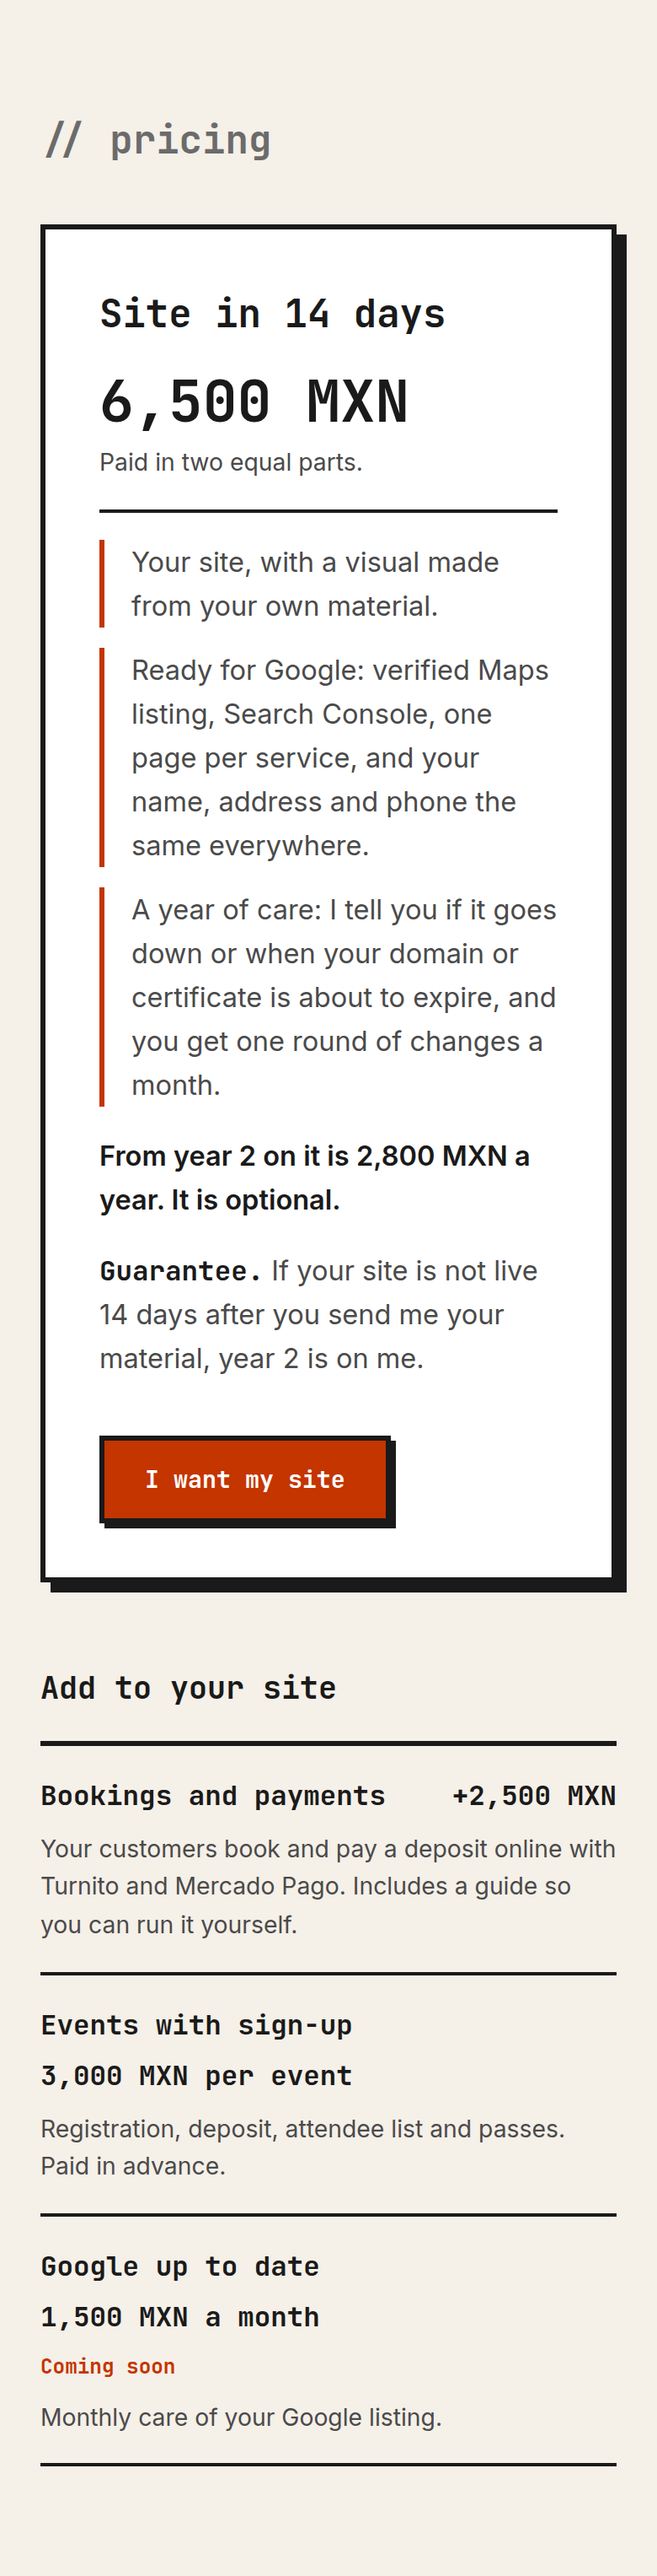
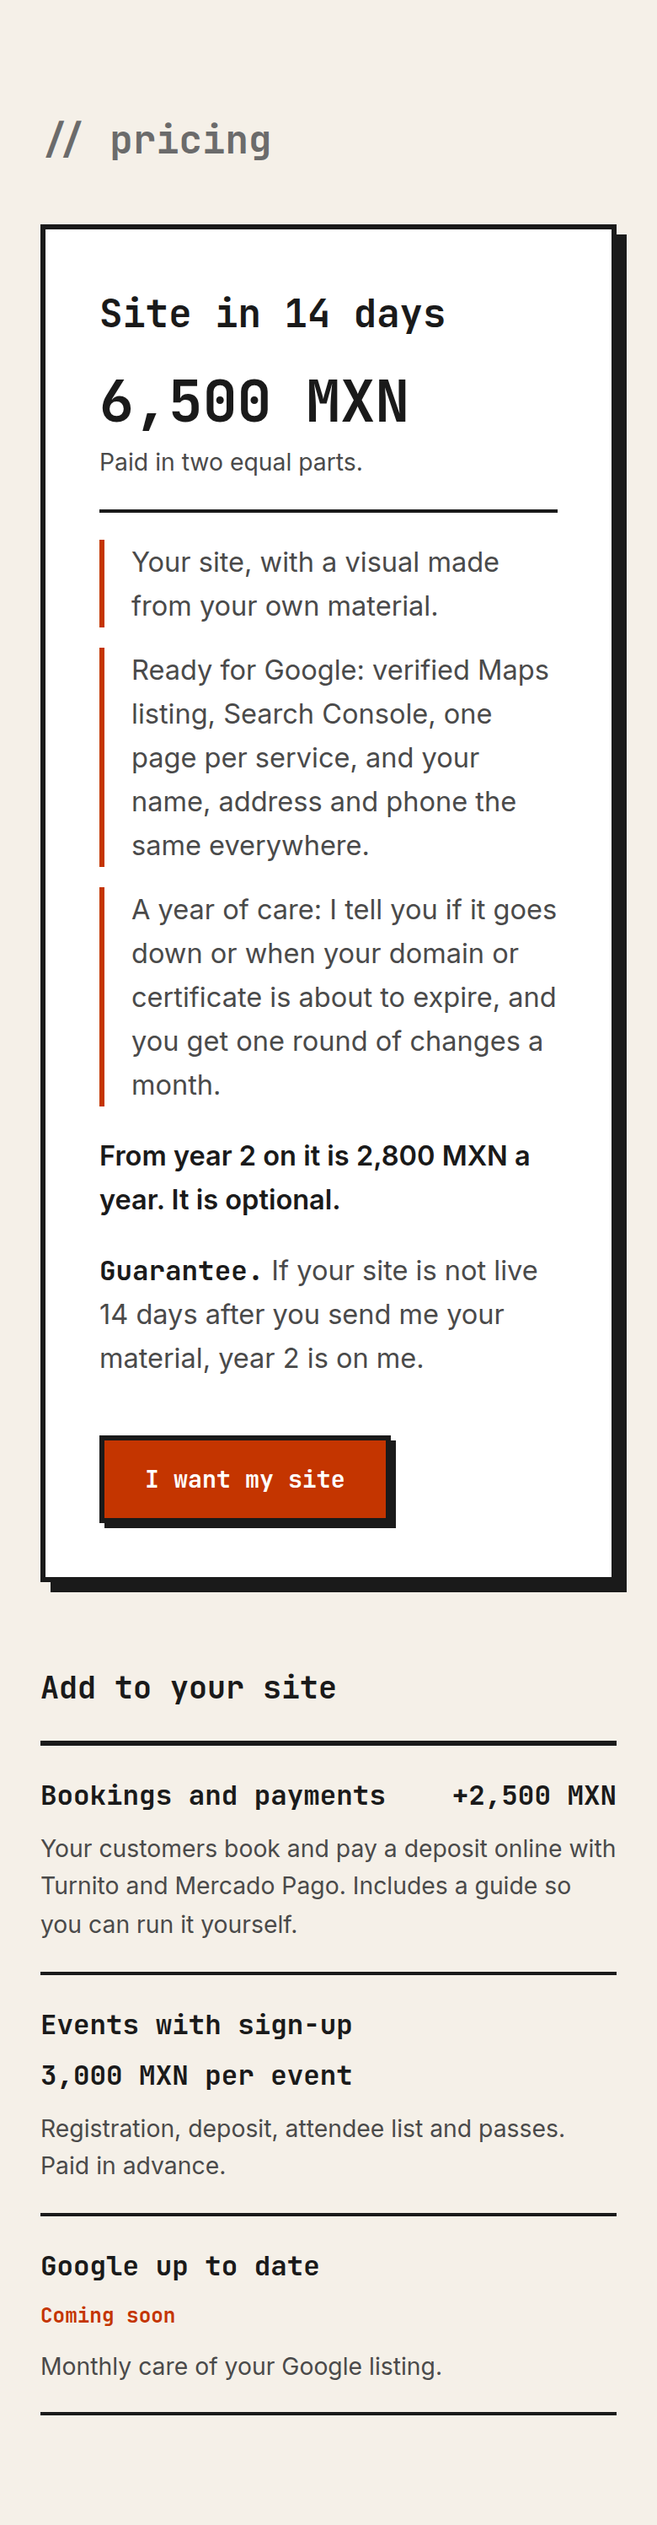
content(web): Google al día shows no price, only Próximamente
Owner's call 2026-11-06: the module is not for sale yet, so no 1,500 MXN/mes
on the page (es + en). DESIGN.md and the section screenshots updated.

Claude-Session: https://claude.ai/code/session_01JDrAz8PRDkKof6gAjaTaAv

Changed region(s): [[0.0615, 0.0311, 0.9538, 0.9629]]

diff --git a/docs/design/DESIGN.md b/docs/design/DESIGN.md
@@ -54,6 +54,6 @@ Rows in `references.md` (ids `pricing`, `pricing-modules`, `pricing-copy`).
 | guarantee | label "Garantía." mono + sentence: online 14 days after the material, or year 2 is free | R (keeps the "after the material" condition) |
 | CTA | `.brut-btn` "Quiero mi sitio" → `#contact` (es), `/en/#contact` (en); 181×53 at 390 | T (button), B (existing contact path) |
 | module list | `<ul>` rows, 3 px top rule, 2 px row rules; name mono 700 + price mono 700 `nowrap` on one flex line that wraps at 390; one `--text-sm` line below | slop tells 4, 7, 10 (list, not cards); T |
-| modules | Citas y cobros +2,500 MXN; Eventos con inscripción 3,000 MXN por evento, paid in advance; Google al día 1,500 MXN al mes | R |
-| "Próximamente" | mono `--text-xs` 700 `--color-accent-strong` over the Google al día line: it is not for sale yet | R (sheet: "Próximamente"; 1,500 applies once there is a measured case) |
+| modules | Citas y cobros +2,500 MXN; Eventos con inscripción 3,000 MXN por evento, paid in advance; Google al día with no price (owner, 2026-11-06 21:50: not for sale yet) | R, owner |
+| "Próximamente" | mono `--text-xs` 700 `--color-accent-strong` over the Google al día line: it is not for sale yet, so no price is shown | R (sheet: "Próximamente", no price) |
 | left out | Temporada, combos, Factura y pagos en partes, visual mensual, IVA wording, any ranking or client claim | R ("Fuera de la hoja"), B |
